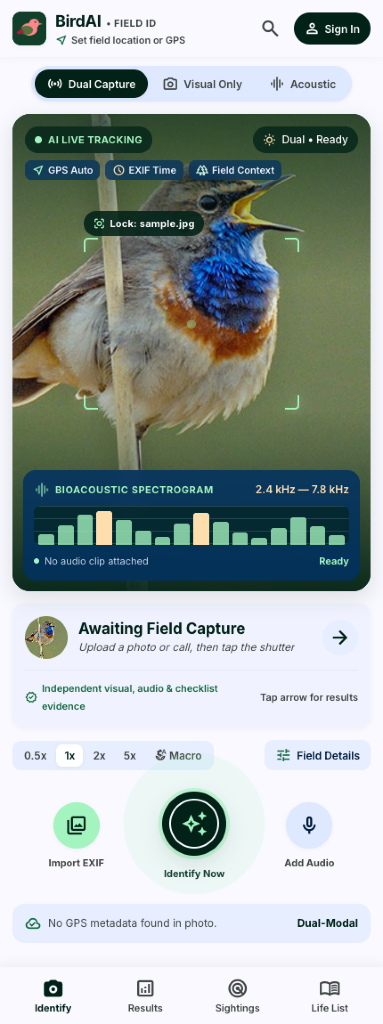
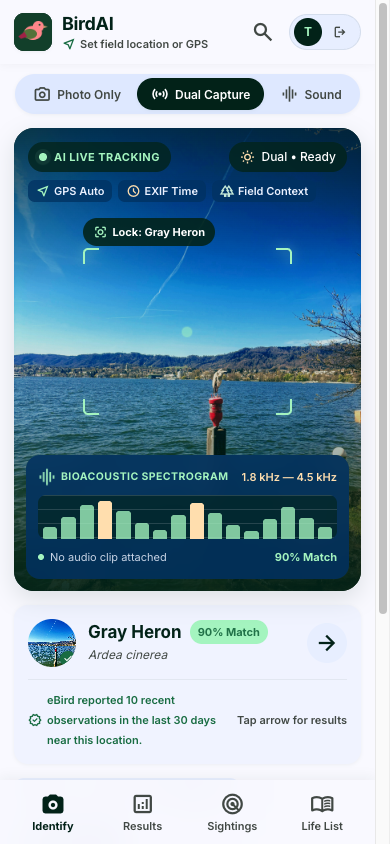
Fix authenticated media loading, 390px header layout, and refresh screenshots

diff --git a/src/birdai/frontend/app.js b/src/birdai/frontend/app.js
@@ -9,6 +9,31 @@ let preferredRadiusKm = 15;
 let chatHistory = [];
 let cachedJournalRecords = [];
 let currentJournalFilter = "all";
+const mediaObjectUrlCache = new Map();
+
+async function loadAuthenticatedMedia(mediaUrl) {
+  if (!mediaUrl) return null;
+  if (!mediaUrl.startsWith("/api/media/")) return mediaUrl;
+  if (mediaObjectUrlCache.has(mediaUrl)) return mediaObjectUrlCache.get(mediaUrl);
+  try {
+    const res = await fetch(mediaUrl, { headers: getAuthHeaders() });
+    if (!res.ok) return null;
+    const blob = await res.blob();
+    const objUrl = URL.createObjectURL(blob);
+    mediaObjectUrlCache.set(mediaUrl, objUrl);
+    return objUrl;
+  } catch {
+    return null;
+  }
+}
+
+function hydrateAuthenticatedImages(root = document) {
+  root.querySelectorAll("img[data-auth-src]").forEach(async (img) => {
+    const mediaUrl = img.getAttribute("data-auth-src");
+    const resolved = await loadAuthenticatedMedia(mediaUrl);
+    if (resolved) img.src = resolved;
+  });
+}
 
 document.addEventListener("DOMContentLoaded", () => {
   setupDialogLightDismissFallback();
@@ -685,6 +710,12 @@ function updateMatchDrawer(record) {
   const top = record.candidates[0];
   if (commonEl) commonEl.textContent = top.common_name;
   if (sciEl) sciEl.textContent = top.scientific_name || "Species candidate";
+  const matchThumb = document.getElementById("match-thumb");
+  if (matchThumb && record.image_path) {
+    loadAuthenticatedMedia(record.image_path).then((resolved) => {
+      if (resolved) matchThumb.src = resolved;
+    });
+  }
   if (pillEl) {
     pillEl.textContent = `${top.confidence_probability}% Match`;
     pillEl.style.display = "inline-flex";
@@ -728,6 +759,11 @@ function renderResults(record) {
   const dashOffset = circumference * (1 - Math.min(100, Math.max(0, conf)) / 100);
   const shortId = String(record.id || "").slice(0, 6).toUpperCase() || "OBS";
   const heroPhoto = currentImageUrl || (record.image_path ? record.image_path : null);
+  const heroImgTag = heroPhoto
+    ? heroPhoto.startsWith("/api/media/")
+      ? `<img src="/static/icon.png" data-auth-src="${escapeHtml(heroPhoto)}" alt="${escapeHtml(top.common_name)}">`
+      : `<img src="${escapeHtml(heroPhoto)}" alt="${escapeHtml(top.common_name)}">`
+    : "";
   const obsLoc = record.observation_context?.location_text || "Field Location";
   const obsDate = record.observation_context?.observation_date || "Today";
   const modalityLabel = (record.modality || "multimodal").toUpperCase();
@@ -758,7 +794,7 @@ function renderResults(record) {
     <!-- Specimen Hero Card -->
     <article class="specimen-hero-card">
       <div class="specimen-hero-media">
-        ${heroPhoto ? `<img src="${escapeHtml(heroPhoto)}" alt="${escapeHtml(top.common_name)}">` : ""}
+        ${heroImgTag}
         <div class="specimen-hero-overlay">
           <div class="specimen-hero-badges">
             <span class="hero-badge-light">
@@ -912,6 +948,7 @@ function renderResults(record) {
   `;
 
   list.innerHTML = html;
+  hydrateAuthenticatedImages(list);
 
   document.getElementById("btn-confirm-top")?.addEventListener("click", () => {
     openCorrectionModal(top.common_name, top.scientific_name || "");
@@ -1258,7 +1295,7 @@ function renderJournalEntries() {
     card.className = "journal-log-card";
     card.innerHTML = `
       <div class="journal-log-top">
-        <img class="journal-thumb" src="${escapeHtml(r.image_path || "/static/icon.png")}" alt="${escapeHtml(displayName)}" onerror="this.src='/static/icon.png'">
+        <img class="journal-thumb" src="/static/icon.png" ${r.image_path ? `data-auth-src="${escapeHtml(r.image_path)}"` : ""} alt="${escapeHtml(displayName)}">
         <div class="journal-log-meta">
           <div class="journal-log-name">${escapeHtml(displayName)}</div>
           ${sciName ? `<div class="journal-log-sci">${escapeHtml(sciName)}</div>` : ""}
@@ -1287,12 +1324,27 @@ function renderJournalEntries() {
     card.addEventListener("click", () => {
       currentRecord = r;
       currentImageUrl = r.image_path || null;
+      if (r.image_path) {
+        loadAuthenticatedMedia(r.image_path).then((resolved) => {
+          if (resolved) {
+            const imgPreview = document.getElementById("image-preview");
+            const container = document.getElementById("image-preview-container");
+            const emptyEl = document.getElementById("viewfinder-empty");
+            if (imgPreview && container) {
+              imgPreview.src = resolved;
+              container.style.display = "block";
+            }
+            if (emptyEl) emptyEl.style.display = "none";
+          }
+        });
+      }
       updateMatchDrawer(r);
       renderResults(r);
       switchView("results");
     });
     listEl.appendChild(card);
   });
+  hydrateAuthenticatedImages(listEl);
 }
 
 function exportJournalCsv() {

diff --git a/src/birdai/frontend/styles.css b/src/birdai/frontend/styles.css
@@ -172,11 +172,19 @@ textarea {
 }
 
 .brand-subtitle {
+  display: none;
   font-size: 11px;
   font-weight: 700;
   letter-spacing: 0.04em;
   text-transform: uppercase;
   color: var(--on-surface-variant);
+  white-space: nowrap;
+}
+
+@media (min-width: 500px) {
+  .brand-subtitle {
+    display: inline;
+  }
 }
 
 .location-pill-btn {
@@ -286,13 +294,20 @@ textarea {
 }
 
 .user-email {
+  display: none;
   font-size: 11px;
   font-weight: 600;
   color: var(--primary);
-  max-width: 96px;
+  max-width: 110px;
   overflow: hidden;
   text-overflow: ellipsis;
   white-space: nowrap;
+}
+
+@media (min-width: 440px) {
+  .user-email {
+    display: inline;
+  }
 }
 
 .btn-logout {
@@ -585,9 +600,9 @@ textarea {
   box-shadow: var(--shadow-md);
 }
 
-.spectrogram-header { display: flex; align-items: center; justify-content: space-between; margin-bottom: 8px; }
-.spectrogram-title { display: flex; align-items: center; gap: 6px; font-size: 11px; font-weight: 700; letter-spacing: 0.05em; color: var(--secondary-fixed); }
-.spectrogram-freq { font-size: 12px; font-weight: 600; color: var(--tertiary-fixed); }
+.spectrogram-header { display: flex; align-items: center; justify-content: space-between; gap: 6px; margin-bottom: 8px; }
+.spectrogram-title { display: flex; align-items: center; gap: 5px; font-size: 10.5px; font-weight: 700; letter-spacing: 0.04em; color: var(--secondary-fixed); white-space: nowrap; }
+.spectrogram-freq { font-size: 11px; font-weight: 600; color: var(--tertiary-fixed); white-space: nowrap; }
 
 .spectrogram-bars {
   height: 44px;
@@ -1239,6 +1254,8 @@ textarea {
   color: var(--primary);
   font-size: 12px;
   font-weight: 600;
+  white-space: nowrap;
+  flex-shrink: 0;
   cursor: pointer;
 }
 .btn-chip-outline:hover { background: var(--surface-container); }

diff --git a/src/birdai/frontend/index.html b/src/birdai/frontend/index.html
@@ -14,7 +14,7 @@
   <link rel="preconnect" href="https://fonts.googleapis.com">
   <link rel="preconnect" href="https://fonts.gstatic.com" crossorigin>
   <link href="https://fonts.googleapis.com/css2?family=Inter:wght@400;500;600;700&family=Material+Symbols+Outlined:opsz,wght,FILL,GRAD@20..48,400..600,0..1,0&display=swap" rel="stylesheet">
-  <link rel="stylesheet" href="/static/styles.css?v=2">
+  <link rel="stylesheet" href="/static/styles.css?v=4">
 </head>
 <body>
 
@@ -668,6 +668,6 @@
     </div>
   </dialog>
 
-  <script src="/static/app.js?v=2"></script>
+  <script src="/static/app.js?v=3"></script>
 </body>
 </html>
